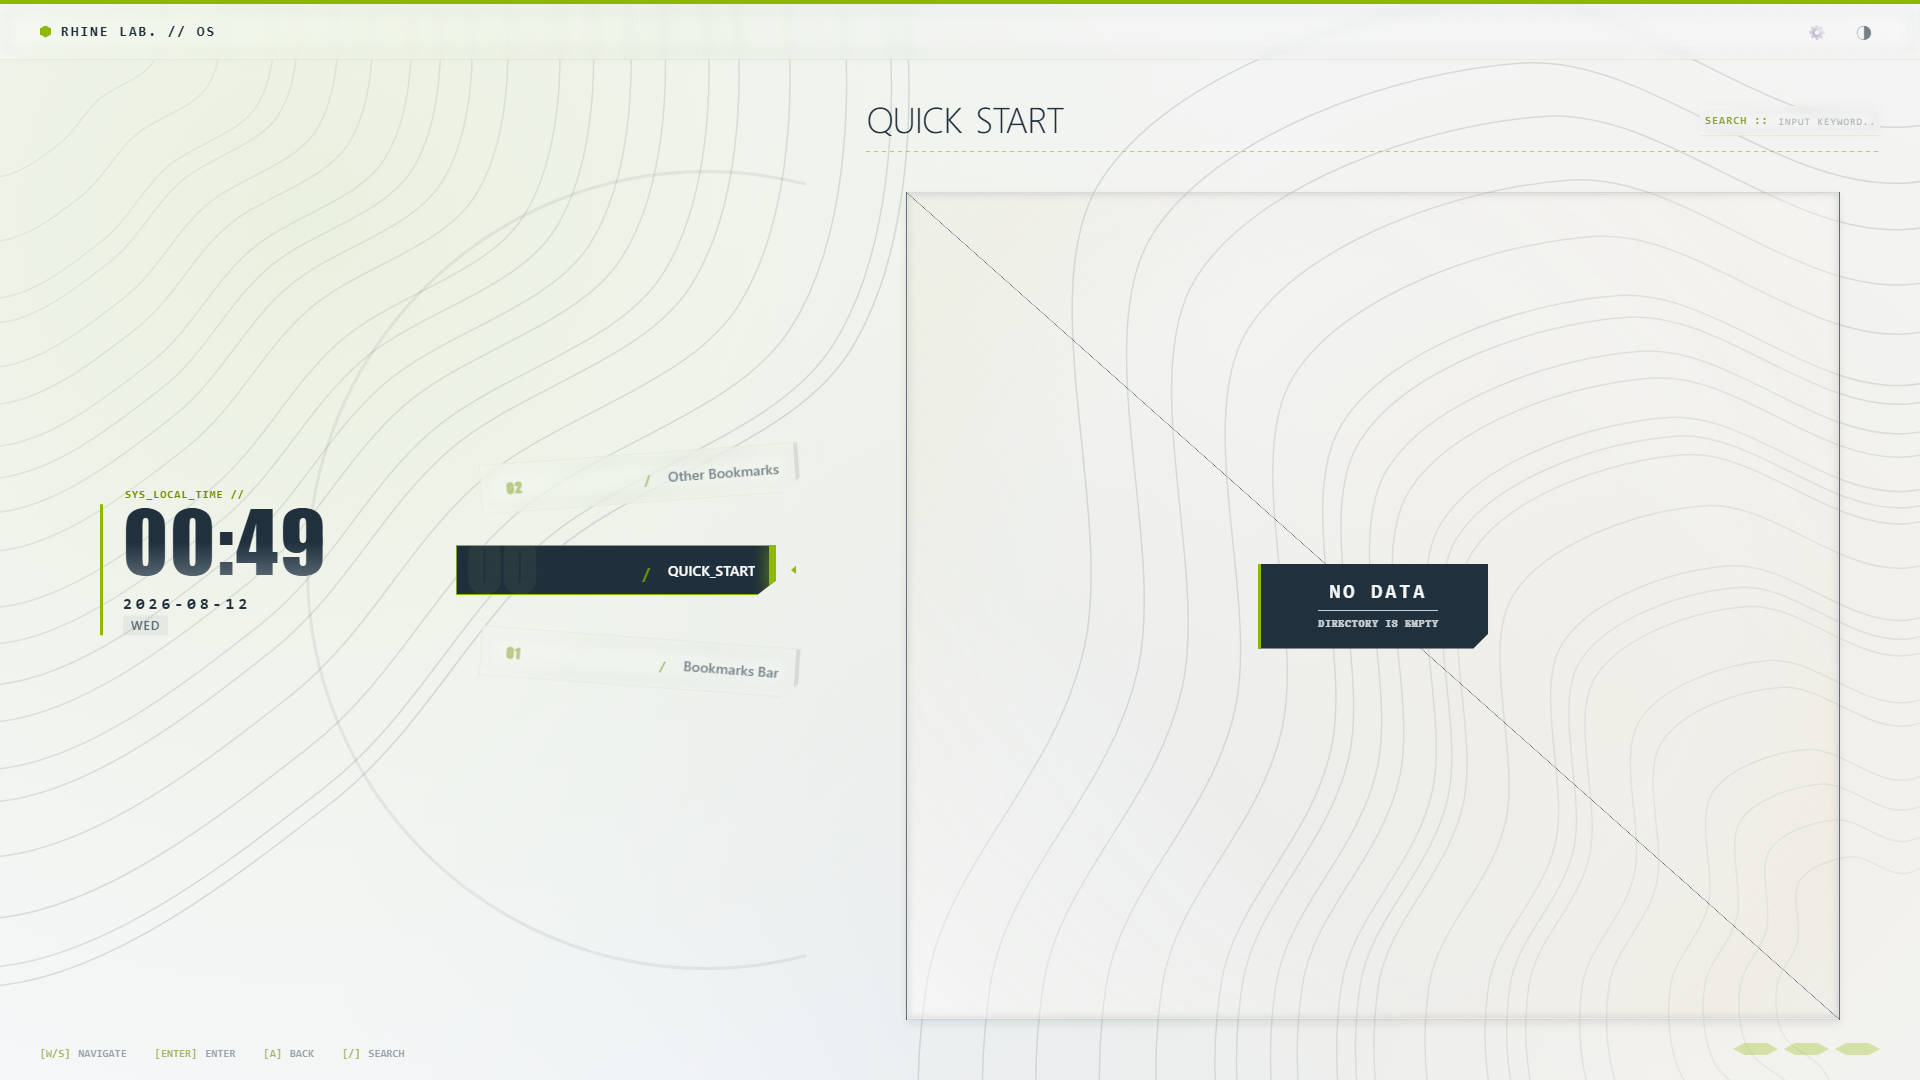
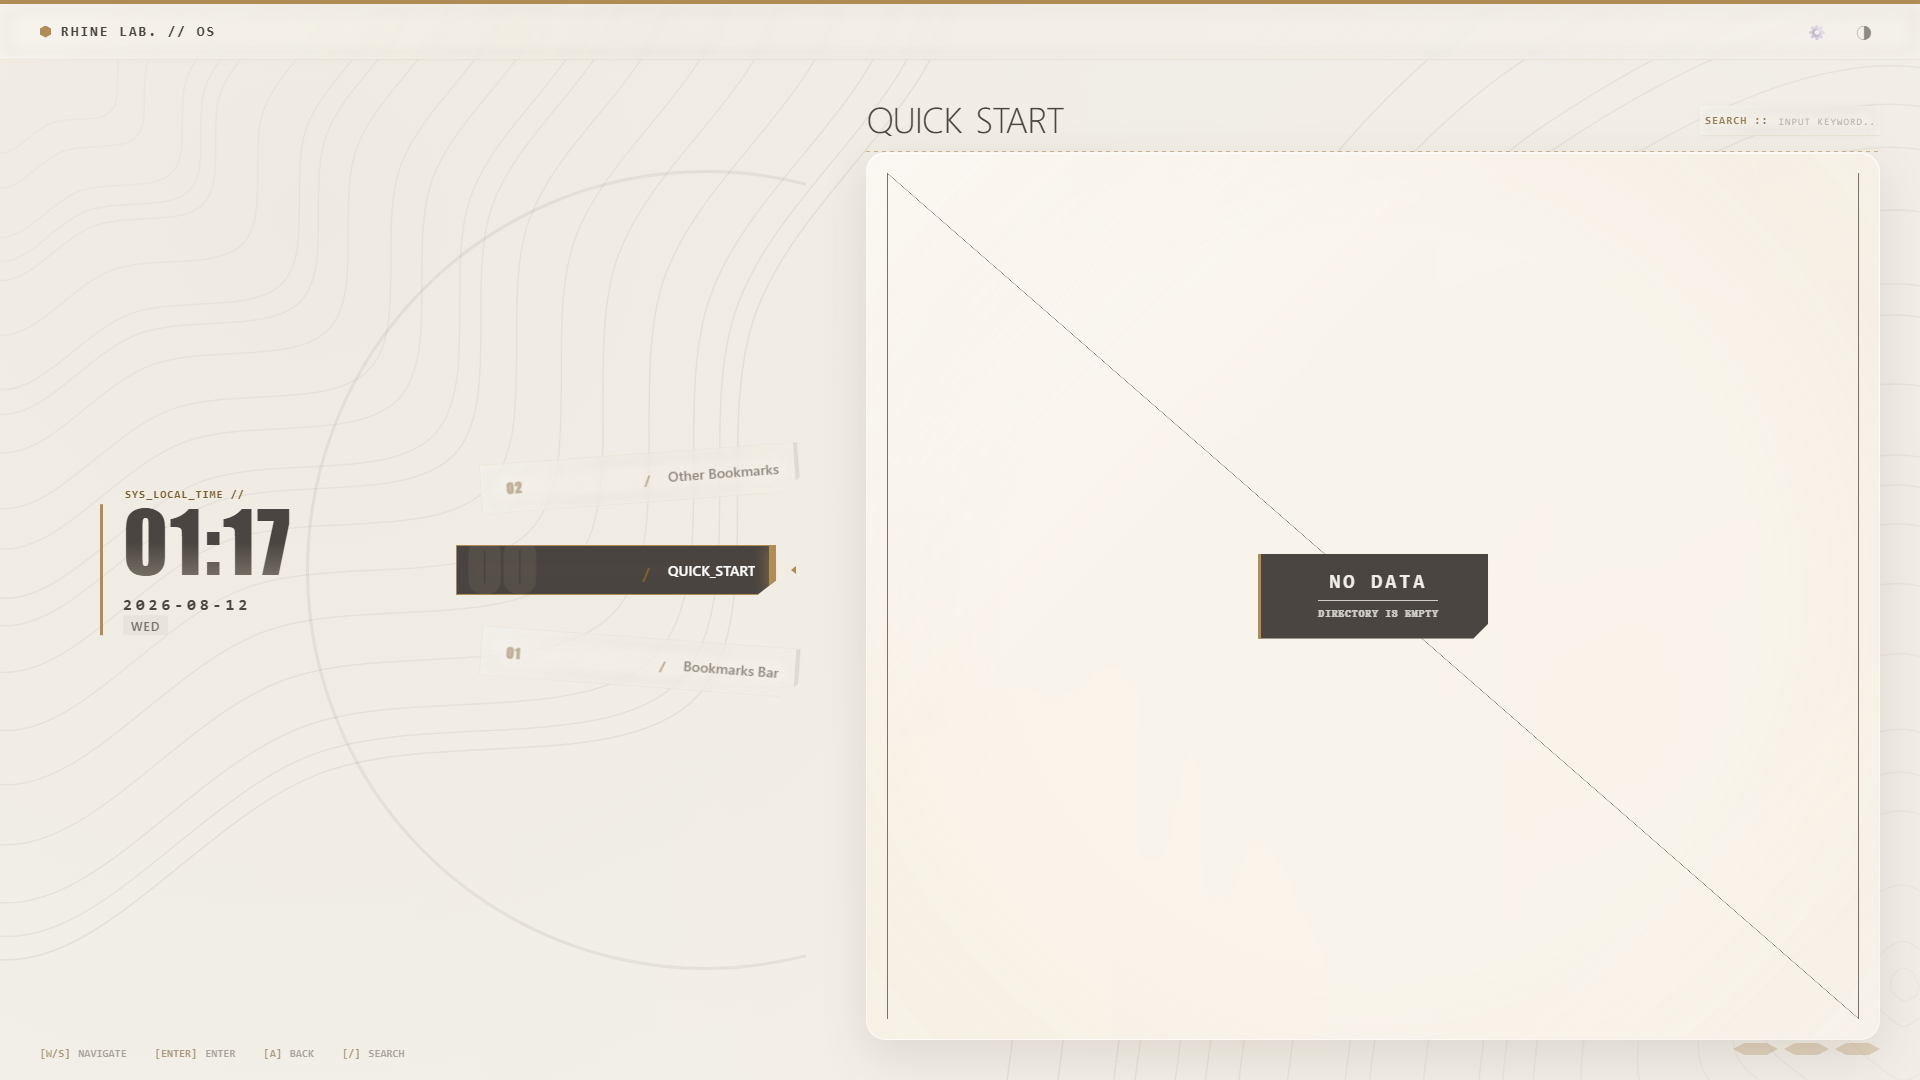
feat(ui): warm light theme + single glass panel with flat rows
- light theme fully warm: bg #F2EFE9, warm brown text, gold accent #B08D57/#7C5F31 (green removed); dark theme stays cool
- right column becomes one glass panel (.content-list: warm ivory 0.55, blur 24px, radius 20px, single warm shadow, sheen + oxidation layers); rows flattened: no per-item shadow/border/radius, 1px warm separators, subtle hover tint
- selection: warm amber bg + warm dark text + 3px gold indicator (replaces green fill/translate)
- background contours/glow spots dimmed to avoid moire; empty-state backdrop transparent (panel owns the glass)
- regenerate screenshots

diff --git a/LoneTrail-Tab/css/variables.css b/LoneTrail-Tab/css/variables.css
@@ -4,38 +4,38 @@
        ========================================= */
 
     /* 基础 */
-    --bg-color: #F5F7F9;
-    --inset: rgba(32, 48, 60, 0.05);       /* 内部轻微填充 */
+    --bg-color: #F2EFE9;
+    --inset: rgba(74, 69, 64, 0.05);       /* 内部轻微填充 */
 
     /* 文字 */
-    --text-main: #20303C;
-    --text-sub: #5C6B76;
+    --text-main: #4A4540;
+    --text-sub: #7A7268;
     --text-inverse: #FFFFFF;               /* 深色激活底上的文字 */
-    --text-on-accent: #101418;             /* 绿色填充上的文字 */
+    --text-on-accent: #2A2520;             /* 暖金填充上的文字 */
     --text-on-danger: #FFFFFF;             /* 红色警示底上的文字 */
 
     /* 强调色（莱茵荧光绿） */
-    --accent: #8FB800;                     /* 填充/边框/光效 */
-    --accent-text: #6E8F00;                /* 小字号文字绿（AA 达标） */
-    --accent-dim: rgba(143, 184, 0, 0.14);
+    --accent: #B08D57;                     /* 暖金：填充/边框/光效 */
+    --accent-text: #7C5F31;                /* 深琥珀文字（AA 达标） */
+    --accent-dim: rgba(176, 141, 87, 0.16);
 
     /* 警示色 */
     --danger: #D64541;
     --danger-glow: rgba(214, 69, 65, 0.5);
 
     /* 线条与分隔 */
-    --border: rgba(32, 48, 60, 0.12);
-    --grid-line: rgba(32, 48, 60, 0.14);
+    --border: rgba(74, 69, 64, 0.14);
+    --grid-line: rgba(74, 69, 64, 0.08);   /* 等高线大幅减淡，避免摩尔纹 */
 
     /* 阴影与遮罩 */
-    --shadow: rgba(16, 20, 24, 0.10);
-    --shadow-soft: rgba(16, 20, 24, 0.04);
-    --overlay: rgba(16, 20, 24, 0.60);
+    --shadow: rgba(74, 60, 40, 0.12);
+    --shadow-soft: rgba(74, 60, 40, 0.05);
+    --overlay: rgba(58, 47, 35, 0.55);
 
     /* 组件派生 */
     --dial-active-bg: var(--text-main);
-    --dial-idx-active: rgba(184, 233, 134, 0.30);
-    --decoration-ring: rgba(32, 48, 60, 0.08);
+    --dial-idx-active: rgba(255, 235, 200, 0.32);
+    --decoration-ring: rgba(74, 69, 64, 0.08);
 
     /* 字体 */
     --font-ui: "Segoe UI", "Microsoft YaHei", "PingFang SC", "Helvetica Neue", sans-serif;
@@ -48,22 +48,29 @@
     --panel-border: rgba(206, 190, 150, 0.22);
     --panel-sheen: linear-gradient(135deg, rgba(255, 255, 255, 0.35) 0%, transparent 35%, transparent 65%, rgba(255, 255, 255, 0.15) 100%);
     --panel-rim: inset 1px -1px 0.5px -0.5px rgba(255, 255, 255, 0.35), inset -1px 1px 0.5px -0.5px rgba(255, 255, 255, 0.18), inset 0 0 1px rgba(32, 48, 60, 0.12);
+    --panel-highlight: rgba(255, 255, 255, 0.60); /* 面板顶部内高光 */
 
-    /* 液态玻璃（右栏，双主题同配方、明暗仅强度区分） */
-    --glass-bg: rgba(255, 255, 255, 0.04);
-    --glass-blur: 2px;
-    --glass-border: rgba(32, 48, 60, 0.14);
-    --glass-sheen: linear-gradient(45deg, rgba(255, 255, 255, 0.55) 0%, transparent 30%, transparent 70%, rgba(255, 255, 255, 0.30) 100%);
+    /* 右栏单块玻璃面板（明色：暖象牙） */
+    --glass-bg: rgba(255, 250, 242, 0.55);
+    --glass-blur: 24px;
+    --glass-border: rgba(255, 255, 255, 0.5);
+    --glass-sheen: linear-gradient(135deg, rgba(255, 255, 255, 0.50) 0%, transparent 35%, transparent 75%, rgba(255, 255, 255, 0.15) 100%);
     --glass-oxidize: radial-gradient(circle at 50% 50%, transparent 55%, rgba(200, 170, 120, 0.06) 85%, rgba(180, 150, 100, 0.04) 100%);
-    --glass-rim: inset 2px -2px 1px -1px rgba(255, 255, 255, 0.65), inset -2px 2px 1px -1px rgba(255, 255, 255, 0.40), inset 0 0 2px rgba(32, 48, 60, 0.25), inset 0 0 10px -2px rgba(32, 48, 60, 0.28), inset 0 0 16px rgba(180, 140, 90, 0.05), 0 4px 8px rgba(16, 20, 24, 0.08);
+
+    /* 扁平行（右栏面板内部） */
+    --row-sep: rgba(200, 185, 160, 0.18);
+    --row-hover: rgba(255, 255, 255, 0.30);
+    --row-active-bg: rgba(220, 200, 170, 0.28);
+    --row-active-text: #4A3F2E;
+    --row-indicator: rgba(180, 150, 100, 0.7);
 
     /* 模糊暗环（液态/磨砂边缘折射缝） */
     --ring-color: rgba(32, 48, 60, 0.28);
 
     /* 背景柔光斑 */
-    --glow-spot-1: rgba(143, 184, 0, 0.10);
-    --glow-spot-2: rgba(214, 190, 140, 0.16);
-    --glow-spot-3: rgba(150, 180, 205, 0.10);
+    --glow-spot-1: rgba(200, 170, 120, 0.07);
+    --glow-spot-2: rgba(230, 210, 170, 0.09);
+    --glow-spot-3: rgba(255, 240, 215, 0.08);
 }
 
 [data-theme="dark"] {
@@ -98,11 +105,11 @@
     --dial-idx-active: rgba(143, 184, 0, 0.35);
     --decoration-ring: rgba(230, 236, 240, 0.10);
 
-    /* 液态玻璃（暗色） */
-    --glass-bg: rgba(255, 255, 255, 0.04);
-    --glass-blur: 2px;
-    --glass-border: rgba(255, 255, 255, 0.14);
-    --glass-sheen: linear-gradient(45deg, rgba(255, 255, 255, 0.28) 0%, transparent 30%, transparent 70%, rgba(255, 255, 255, 0.12) 100%);
+    /* 右栏单块玻璃面板（暗色：冷调深玻璃） */
+    --glass-bg: rgba(22, 28, 33, 0.62);
+    --glass-blur: 24px;
+    --glass-border: rgba(255, 255, 255, 0.12);
+    --glass-sheen: linear-gradient(135deg, rgba(255, 255, 255, 0.18) 0%, transparent 35%, transparent 75%, rgba(255, 255, 255, 0.05) 100%);
     --glass-oxidize: radial-gradient(circle at 50% 50%, transparent 55%, rgba(255, 190, 120, 0.05) 85%, rgba(255, 170, 100, 0.04) 100%);
     --glass-rim: inset 2px -2px 1px -1px rgba(255, 255, 255, 0.22), inset -2px 2px 1px -1px rgba(255, 255, 255, 0.12), inset 0 0 2px rgba(0, 0, 0, 0.55), inset 0 0 10px -2px rgba(0, 0, 0, 0.45), inset 0 0 16px rgba(255, 190, 120, 0.04), 0 4px 8px rgba(0, 0, 0, 0.35);
 
@@ -112,6 +119,14 @@
     --panel-border: var(--glass-border);
     --panel-sheen: var(--glass-sheen);
     --panel-rim: var(--glass-rim);
+    --panel-highlight: rgba(255, 255, 255, 0.10); /* 面板顶部内高光 */
+
+    /* 扁平行（右栏面板内部） */
+    --row-sep: rgba(230, 236, 240, 0.08);
+    --row-hover: rgba(255, 255, 255, 0.06);
+    --row-active-bg: rgba(184, 233, 134, 0.10);
+    --row-active-text: #E6ECF0;
+    --row-indicator: var(--accent);
 
     --ring-color: rgba(0, 0, 0, 0.45);
 

diff --git a/LoneTrail-Tab/css/list.css b/LoneTrail-Tab/css/list.css
@@ -1,32 +1,32 @@
 .content-list {
-    flex: 1; overflow-y: auto; padding-top: 20px; padding-right: 20px; padding-left: 20px;
-    scrollbar-width: none; 
+    flex: 1; overflow-y: auto; padding: 0;
+    scrollbar-width: none;
+    border-radius: 20px;
+    border: 1px solid var(--glass-border);
+    background-color: var(--glass-bg);
+    background-image: var(--glass-sheen), var(--glass-oxidize);
+    backdrop-filter: blur(var(--glass-blur)) saturate(1.2);
+    -webkit-backdrop-filter: blur(var(--glass-blur)) saturate(1.2);
+    box-shadow: 0 16px 48px var(--shadow), inset 0 1px 0 var(--panel-highlight);
 }
 .content-list::-webkit-scrollbar { display: none; } 
 
 .list-item {
     position: relative; display: flex; align-items: center;
-    height: 60px; margin-bottom: 10px; padding: 0 25px;
-    
-    background-color: var(--glass-bg);
-    background-image: var(--glass-sheen), var(--glass-oxidize);
-    border: 1px solid var(--glass-border); 
-    border-radius: 6px;
+    height: 60px; margin-bottom: 0; padding: 0 28px;
     color: var(--text-sub);
     
     font-size: calc(var(--ui-font-size) * 1.07); /* 变量字体 */
     font-weight: 500;
     font-family: var(--font-ui);
 
-    backdrop-filter: blur(var(--glass-blur)) saturate(1.2); -webkit-backdrop-filter: blur(var(--glass-blur)) saturate(1.2);
-    box-shadow: var(--glass-rim);
-    
-    cursor: pointer; overflow: hidden;
-    
-    transition: transform 0.2s cubic-bezier(0.34, 1.56, 0.64, 1), box-shadow 0.2s, border-color 0.2s, background-color 0.2s, backdrop-filter 0.2s;
-    transform-origin: left center;
+    cursor: pointer;
+    border-bottom: 1px solid var(--row-sep);
+    transition: background-color 0.25s ease, color 0.25s ease;
     opacity: 0; transform: translateX(-20px);
 }
+.list-item:last-child { border-bottom: none; }
+.list-item:hover { background: var(--row-hover); }
 
 .list-item.animate-enter {
     animation: slideIn 0.4s cubic-bezier(0.16, 1, 0.3, 1) forwards;
@@ -35,9 +35,16 @@
 @keyframes slideIn { to { opacity: 1; transform: translateX(0); } }
 
 .list-item::before {
-    content: ''; position: absolute; top: 0; left: 0; bottom: 0; width: 0%;
-    background-color: var(--accent); z-index: 1; 
-    transition: width 0.3s cubic-bezier(0.22, 1, 0.36, 1);
+    content: '';
+    position: absolute;
+    left: 0;
+    top: 20%;
+    height: 60%;
+    width: 3px;
+    background: var(--row-indicator);
+    border-radius: 0 2px 2px 0;
+    opacity: 0;
+    transition: opacity 0.25s ease;
 }
 
 .list-item .title, .list-item .url, .list-item .list-favicon, .list-item .folder-indicator {
@@ -45,21 +52,20 @@
 }
 
 .list-item.selected {
-    transform: translateX(15px) scale(1.02) !important;
-    box-shadow: 0 10px 30px var(--shadow);
-    border-color: var(--border);
-    opacity: 1; backdrop-filter: none; -webkit-backdrop-filter: none; background-color: transparent; 
+    background: var(--row-active-bg);
+    color: var(--row-active-text);
+    opacity: 1;
 }
-.list-item.selected::before { width: 100%; }
+.list-item.selected::before { opacity: 1; }
 
 .list-item.selected .title,
 .list-item.selected .url {
-    color: var(--text-on-accent) !important; /* 绿色填充上统一使用高对比深色字 */
+    color: var(--row-active-text) !important;
     font-weight: 800;
 }
-.list-item.selected .folder-indicator { color: var(--text-on-accent) !important; transform: scale(1.1); }
+.list-item.selected .folder-indicator { color: var(--row-active-text) !important; }
 .list-item .list-favicon { width: 16px; height: 16px; margin-right: 20px; opacity: 0.7; vertical-align: middle; transition: transform 0.3s; }
-.list-item.selected .list-favicon { opacity: 1; transform: scale(1.15); filter: none; }
+.list-item.selected .list-favicon { opacity: 1; filter: none; }
 .list-item .folder-indicator { margin-right: 15px; transition: 0.2s; color: var(--accent-text); font-weight: bold; }
 .list-item .title { flex: 1; white-space: nowrap; overflow: hidden; text-overflow: ellipsis; }
 .list-item .url { font-size: 11px; margin-left: 20px; opacity: 0.75; font-family: var(--font-stack); }
@@ -98,16 +104,7 @@
     position: absolute;
     inset: 20px;
     z-index: 0;
-    
-    background-color: var(--glass-bg);
-    background-image: var(--glass-sheen), var(--glass-oxidize);
-    backdrop-filter: blur(var(--glass-blur)) saturate(1.2);
-    -webkit-backdrop-filter: blur(var(--glass-blur)) saturate(1.2);
-    box-shadow: var(--glass-rim);
     opacity: 1; 
-    
-    /* 极细边框，界定玻璃范围 */
-    border: 1px solid var(--glass-border);
     border-radius: 2px;
 }
 
